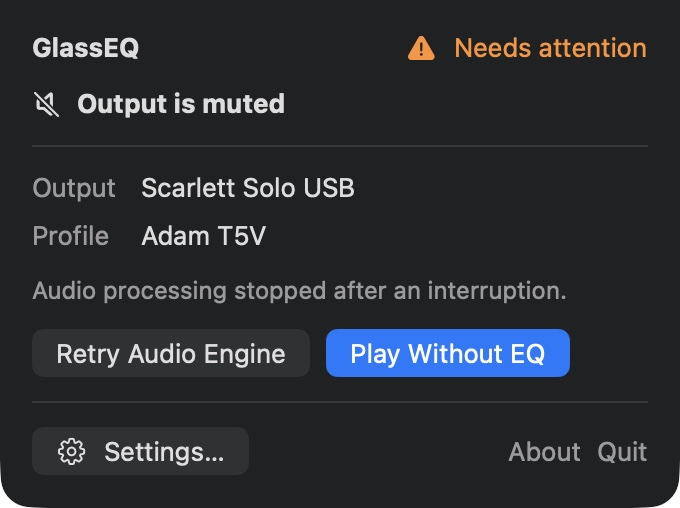
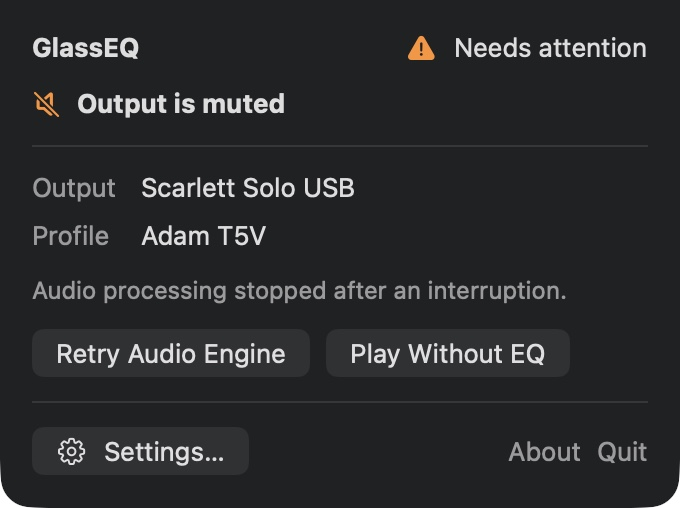
fix(menu): keep recovery text legible in both appearances

Changed region(s): [[0.4632, 0.6201, 0.8647, 0.7677], [0.6485, 0.0591, 0.9574, 0.1181], [0.0309, 0.1772, 0.0926, 0.2362]]

diff --git a/Sources/GlassEQApp/GlassEQApp.swift b/Sources/GlassEQApp/GlassEQApp.swift
@@ -4734,8 +4734,11 @@ private struct MenuBarView: View {
                 Spacer()
                 if model.canControlMenuProcessing {
                     if model.needsMenuRecovery {
-                        Label(localized("Needs attention"), systemImage: "exclamationmark.triangle.fill")
-                            .foregroundStyle(.orange)
+                        Label {
+                            Text(localized("Needs attention"))
+                        } icon: {
+                            Image(systemName: "exclamationmark.triangle.fill").foregroundStyle(.orange)
+                        }
                     } else {
                         Toggle(localized("Equalizer"), isOn: $model.menuProcessingEnabled)
                             .toggleStyle(.switch)
@@ -4751,7 +4754,12 @@ private struct MenuBarView: View {
             }
 
             if model.retryPlayback == .muted {
-                Label(localized("Output is muted"), systemImage: "speaker.slash").font(.headline)
+                Label {
+                    Text(localized("Output is muted"))
+                } icon: {
+                    Image(systemName: "speaker.slash").foregroundStyle(.orange)
+                }
+                .font(.headline)
             }
             Divider()
 
